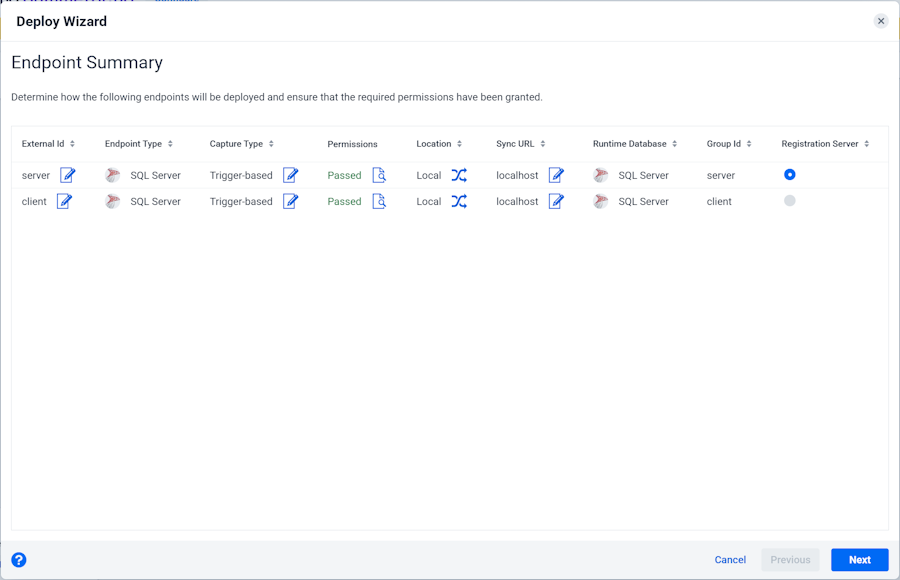
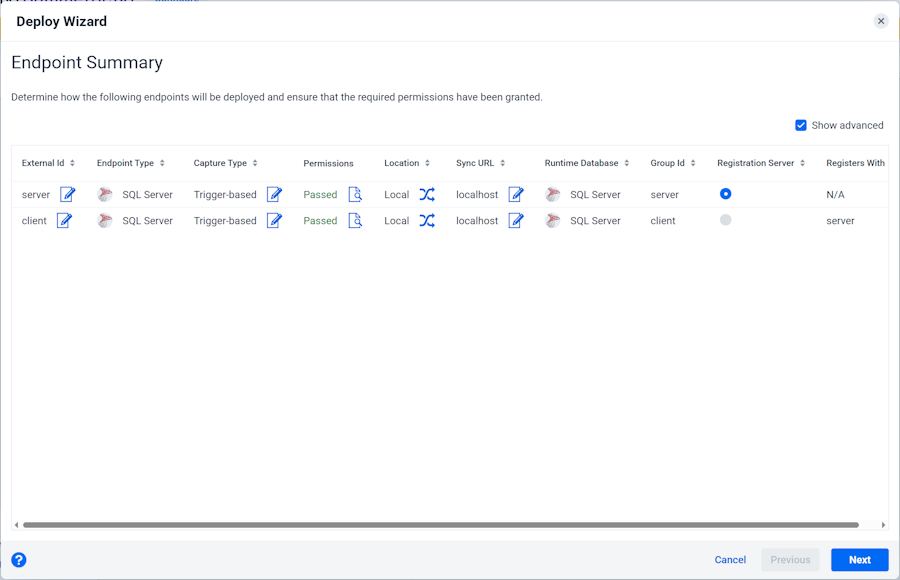
0006796: Added NodeRegistrationListener and documented new Registers With column

diff --git a/symmetric-core/src/main/java/org/jumpmind/symmetric/ext/NodeRegistrationListener.java b/symmetric-core/src/main/java/org/jumpmind/symmetric/ext/NodeRegistrationListener.java
@@ -1,0 +1,34 @@
+package org.jumpmind.symmetric.ext;
+
+import java.util.Map;
+
+public class NodeRegistrationListener implements INodeRegistrationListener {
+    @Override
+    public void registrationUrlUpdated(String url) {
+    }
+
+    @Override
+    public void registrationNextAttemptUpdated(int seconds) {
+    }
+
+    @Override
+    public void registrationStarting(Thread thread) {
+    }
+
+    @Override
+    public void registrationFailed(String message) {
+    }
+
+    @Override
+    public void registrationSyncTriggers() {
+    }
+
+    @Override
+    public void registrationSuccessful() {
+    }
+
+    @Override
+    public Map<String, String> getRequestProperties() {
+        return null;
+    }
+}
